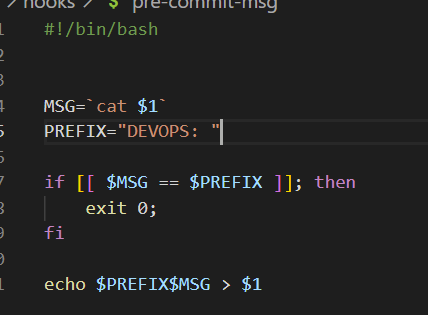
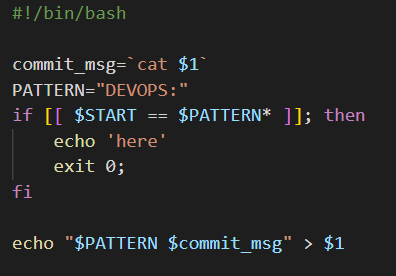
DEVOPS: config git hooks

diff --git a/GCL3/asz404367/sprawko.md b/GCL3/asz404367/sprawko.md
@@ -10,32 +10,39 @@
 ![alt text](./screeny/ed-ketgen2.png)
 4. Nastepnie skonfigurowano zdalny system kontorli wersji tak aby korzystal z pierwszego klucza publicznego, poprzez doanie do ssh-keys w ustawieniach konta
 ![alt text](./screeny/github-ssh.png)
+
 oraz skonifgurowano git config projektu,tak aby uzywal drugiej pary klucza
+
 ![alt text](./screeny/git_config_ssh_cmd.png)
 co można sprawdzić pod .git/config projektu
 ![alt text](./screeny/local_git_config.png).
 
-5. W moim przypadku przed krokami 1-4 zmieniłem branch na gałąź *lab* przy uzyciu komendy git checkout lab3, a nastepnie stworzyłem nowa gałąź przy uzyciu komendy git checkout -b asz404367
+5. W moim przypadku przed krokami 1-4 zmieniłem branch na gałąź *lab3* przy uzyciu komendy git checkout lab3, a nastepnie stworzyłem nowa gałąź przy uzyciu komendy git checkout -b asz404367
 
-Nastepnie wykonano commita z nowy kluczem ssh - clona zrobiono jeszcze z starym kluczem, który miałem w już skonifgurowano.
+Nastepnie wykonano commita z nowy kluczem ssh - clona zrobiono jeszcze z starym kluczem, który miałem już skonifgurowano.
 
 Nastepnie zmergowano stworzony branch do galezi LAB3 
 ![alt text](./screeny/merge.png).
 
 ## Hook sprawdzajacy, czy commit zawiera nazwę przedmiotu.
+    .git/hooks/commit-msg hook przyjmuje jeden parametr, który jest ścieżką do pliku tymczasowego zawierającego wiadomość commita. Git przerwie proces commitowanie, jeśli skrypt zakończy się wartością różną od zera.
+
  Zanim zostanie stworzony commit git uruchomi skrypt pre-commit znajdujacy sie w lokalnym repozytorium pod .git/hooks . W tym hooku napisano logike sprawdzajaca czy commit zawiera nazwe przdmiotu
-![alt text](./screeny/pre-commit-create.png).
-![alt text](./screeny/pre-commit.png).
+![alt text](./screeny/commit-msg.png).
 
 Test hooka
 
 ## Hook ustawiajacy prefiks do commitu
 
-Do tego zadania mozemy wykorzytac skrypt pre-commit-msg, w którym dodamy prefiks devops, jesli nie istnieje.
+Do tego zadania mozemy wykorzytac hook pre-commit-msg, w którym dodamy prefiks devops, jesli nie istnieje.
+
+    Prepare-commit-msg hook jest uruchamiany przed uruchomieniem edytora komunikatów zatwierdzania, ale po utworzeniu commitu. Pozwala edytować domyślną wiadomość, zanim zobaczy ją autor. Hook pobiera kilka parametrów: ścieżkę do pliku, w którym znajduje się dotychczas commit, typ commitu i SHA-1 commitu, jeśli został zmieniony.Hook jest przydatny w przypadku zatwierdzeń, w których domyślna wiadomość jest generowana automatycznie.
+
 ![alt text](./screeny/pre-commit-msg.png).
 
 
-Wszystkim scryptom dodano prawo wykonywanie.
+Skryptą prepare-commit-msg oraz commit-msg dodano uprawnienia wykonywalne.
 
 
 
+## **Historia wykonywanych poleceń znajduje się w plilku ./history_lab1.txt**
